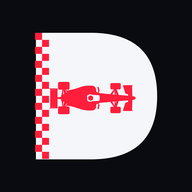
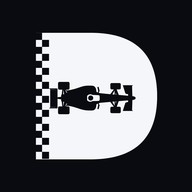
design(web): the mark knocks the car out instead of painting it
Inverted, per the second file. Everything solid is currentColor; the car
and half the chequer are cut out by a mask, so they show whatever is
actually behind the logo. On the site's ground the car is #0a0b10, on a
glass card it takes the card, on a blue banner it is blue -- nothing to
configure, one file. Painting them var(--color-bg) instead would have been
right only while the logo sat directly on the page, and wrong the moment
it landed on a card or an image.

The mask does not live inside the mark, and that is a bug fix rather than
a preference. url(#...) resolves to the first definition in the document,
and the first Logomark in this tree belongs to BootScreen, which the
pre-hydration script marks hidden; #boot-screen[hidden] is display:none,
and Chrome does not build SVG resources inside a display:none subtree. So
every reference on the page failed at once and all three marks drew as
unmasked white squares. LogoSprite renders the definition once, from the
root layout, in a zero-sized but rendered <svg>. It also takes the page
from three copies of 13 kB of path data to one.

All four raster icons regenerate from the new mark.

Claude-Session: https://claude.ai/code/session_01JEzcf5RCxaCG7udiR68ixF

Changed region(s): [[0.1562, 0.1562, 0.7188, 0.8438]]

diff --git a/web/components/Logomark.tsx b/web/components/Logomark.tsx
@@ -1,100 +1,63 @@
+import type { CSSProperties } from "react";
+
 /**
  * The logomark: a D whose counter is a Formula 1 seen from above, with the
  * start-finish chequer running down the stem.
  *
- * Drawn in Canva and handed over as SVG, then reduced to the four drawing
- * groups that make up the mark — the letter, the stem block, the chequer and
- * the car. The vertical "F1 Duel" lettering and the "Race Prediction Game"
- * line that came with the file are deliberately **not** here: the site already
- * sets its name in Archivo (`Wordmark`), and two different cuts of the same
- * two words sitting beside each other is the one thing a logotype cannot do.
- * The full lockup stays the poster and app-store asset.
+ * ## One colour, and a hole
  *
- * ## Two colours, one of which moves
+ * The mark is **a single fill plus a knockout.** Everything solid is
+ * `currentColor`, so the caller decides the contrasting colour and the mark
+ * inverts with whatever it sits on. The car and half the chequer are not
+ * painted at all: they are cut out of the letter by a mask, so they show
+ * **whatever is actually behind the logo** — the page, a glass card, a red
+ * button, a blue banner. On the site's own ground the car is `#0a0b10`; drop
+ * the same markup on blue and the car is blue, with nothing to configure.
  *
- * The letter is `currentColor`, so the mark inverts with whatever it sits on:
- * `text-ink` on the page, `text-bg` on a light surface, white on race red. The
- * car and the chequer are `var(--color-race)` and stay put, because red reads
- * on all three. The file arrived at `#fe0000`; it is on the site's own
- * `--color-race` here so a change to the token moves the logo with everything
- * else.
+ * The alternative was painting them with `var(--color-bg)`. That is right only
+ * while the logo sits directly on the page background, and wrong the moment it
+ * lands on a card, an image or a coloured surface. A hole is right everywhere.
  *
- * **This has to be inlined, not `<img src>`.** An SVG in an `<img>` is an
- * isolated document: it cannot see the page's `color` or its custom
- * properties, so the letter would render black on black. The standalone files
- * the platform demands (favicon, the two manifest icons, apple-icon) are
- * baked with literal colours for exactly that reason.
+ * The mask itself lives in `LogoSprite`, once per document — see the note
+ * there, which is a real bug and not a preference.
  *
- * Coordinates are rounded to one decimal, which took the path data from 22 kB
- * to 13 kB and is invisible: the viewBox is 751 units wide and the mark is
- * never drawn above about 200 pixels, so a tenth of a unit is a fortieth of a
- * pixel.
+ * **It has to be inlined, never `<img src>`.** An SVG in an `<img>` is an
+ * isolated document: it cannot see the page's `color`, so the letter would
+ * render black on black, and the knockout would show the img's own transparent
+ * backdrop rather than the surface behind it. The standalone files the
+ * platform demands — `favicon.ico`, `apple-icon.png`,
+ * `public/icon-{192,512}.png` — are therefore baked against the site's dark
+ * ground, which is the only place they are ever seen.
+ *
+ * The vertical "F1 Duel" lettering and the "Race Prediction Game" line that
+ * come with the source file are not here. The site sets its name in Archivo
+ * (`Wordmark`), and two different cuts of the same two words on one line is
+ * the one thing a logotype cannot do. The full lockup is kept at
+ * `public/logo-lockup.svg`.
  */
-export default function Logomark({ className = "" }: { className?: string }) {
+export default function Logomark({
+  className = "",
+  style,
+}: {
+  className?: string;
+  style?: CSSProperties;
+}) {
   return (
     <svg
       viewBox="478 349 751 778"
       className={className}
+      style={style}
       aria-hidden
       focusable="false"
     >
-      <defs>
-        <g />
-        <clipPath id="6fc291a2b5">
-          <rect x="0" width="882" y="0" height="1233" />
-        </clipPath>
-        <clipPath id="db0d56f797">
-          <path d="M 726.9 530.1 L 995.4 530.1 L 995.4 980.1 L 726.9 980.1 Z M 726.9 530.1" />
-        </clipPath>
-        <clipPath id="da140d0ff9">
-          <path d="M 0.9 0.1 L 269.4 0.1 L 269.4 450.1 L 0.9 450.1 Z M 0.9 0.1" />
-        </clipPath>
-        <clipPath id="29d493cb91">
-          <rect x="0" width="270" y="0" height="451" />
-        </clipPath>
-        <clipPath id="937ad524ee">
-          <path d="M 478.2 349 L 564.4 349 L 564.4 1124 L 478.2 1124 Z M 478.2 349" />
-        </clipPath>
-        <clipPath id="9f8ef73ac9">
-          <path d="M 564.7 650.4 L 1097 650.4 L 1097 849.9 L 564.7 849.9 Z M 564.7 650.4" />
-        </clipPath>
-      </defs>
-      <g transform="matrix(1, 0, 0, 1, 399, 133)">
-        <g clipPath="url(#6fc291a2b5)">
-          <g fill="currentColor">
-            <g transform="translate(0.922059, 994.024256)">
-              <g>
-                <path d="M 420.7 -778.1 C 692.9 -778.1 829 -648.4 829 -389.1 C 829 -129.7 692.9 0 420.7 0 L 83.7 0 L 83.7 -778.1 Z M 333.6 -186.6 L 416.2 -186.6 C 521 -186.6 573.4 -242.8 573.4 -355.1 L 573.4 -423 C 573.4 -535.3 521 -591.5 416.2 -591.5 L 333.6 -591.5 Z M 333.6 -186.6" />
-              </g>
-            </g>
-          </g>
-        </g>
-      </g>
-      <g clipPath="url(#db0d56f797)">
-        <g transform="matrix(1, 0, 0, 1, 726, 530)">
-          <g clipPath="url(#29d493cb91)">
-            <g clipPath="url(#da140d0ff9)">
-              <path
-                fill="currentColor"
-                d="M 0.9 0.1 L 269.4 0.1 L 269.4 450.2 L 0.9 450.2 Z M 0.9 0.1"
-              />
-            </g>
-          </g>
-        </g>
-      </g>
-      <g clipPath="url(#937ad524ee)">
-        <path
-          fill="var(--color-race)"
-          d="M 564.4 435.4 L 521.4 435.4 L 521.4 392.4 L 564.4 392.4 Z M 564.4 478.4 L 521.4 478.4 L 521.4 521.4 L 564.4 521.4 Z M 564.4 564.4 L 521.4 564.4 L 521.4 607.5 L 564.4 607.5 Z M 564.4 650.5 L 521.4 650.5 L 521.4 693.5 L 564.4 693.5 Z M 564.4 736.5 L 521.4 736.5 L 521.4 779.6 L 564.4 779.6 Z M 564.4 822.6 L 521.4 822.6 L 521.4 865.6 L 564.4 865.6 Z M 564.4 908.6 L 521.4 908.6 L 521.4 951.6 L 564.4 951.6 Z M 564.4 994.6 L 521.4 994.6 L 521.4 1037.6 L 564.4 1037.6 Z M 564.4 1080.7 L 521.4 1080.7 L 521.4 1123.7 L 564.4 1123.7 Z M 478.4 349.4 L 478.4 392.4 L 521.4 392.4 L 521.4 349.4 Z M 478.4 435.4 L 478.4 478.4 L 521.4 478.4 L 521.4 435.4 Z M 478.4 521.4 L 478.4 564.4 L 521.4 564.4 L 521.4 521.4 Z M 478.4 607.5 L 478.4 650.5 L 521.4 650.5 L 521.4 607.5 Z M 478.4 693.5 L 478.4 736.5 L 521.4 736.5 L 521.4 693.5 Z M 478.4 779.5 L 478.4 822.5 L 521.4 822.5 L 521.4 779.5 Z M 478.4 865.6 L 478.4 908.6 L 521.4 908.6 L 521.4 865.6 Z M 478.4 951.6 L 478.4 994.6 L 521.4 994.6 L 521.4 951.6 Z M 478.4 1037.6 L 478.4 1080.7 L 521.4 1080.7 L 521.4 1037.6 Z M 478.4 1037.6"
-        />
-      </g>
-      <g clipPath="url(#9f8ef73ac9)">
-        <path
-          fill="var(--color-race)"
-          d="M 668.8 698.6 L 672.4 703.3 C 672.5 703.5 672.7 703.5 672.7 703.5 C 677.4 703 681.4 702.6 684.9 702 C 699.3 699.6 713 696.5 726 692.7 C 733.9 690.4 742.3 687.6 751.2 684.5 C 765.1 679.6 779.6 674.9 794.2 674.2 C 803.3 673.7 813.6 673.7 825.2 673.9 C 830.1 673.9 834.2 674.2 838.5 676.1 C 848.1 680.5 852.9 690.5 854.4 700.7 C 854.7 702.9 855 706.1 855.3 710.5 C 855.3 710.7 855.4 710.8 855.6 711.1 C 857.3 713.3 860.9 714.8 863.5 715.8 C 863.5 715.8 863.7 715.8 863.7 715.8 C 863.8 715.8 864 715.8 864 715.7 L 866.6 708.2 C 866.8 707.9 866.8 707.6 866.6 707.3 C 864.5 697.9 862.9 690.6 861.6 685.6 C 861.5 684.8 861.3 684 861.6 683.6 C 862.2 682.1 864.5 681.5 866.3 681.2 C 868.8 680.8 869.4 682.1 870 684.5 C 871.3 690.4 872.8 697 874.6 704.2 C 875.3 707.1 875.2 709.6 872.1 710.8 C 871.8 711 871.6 711.1 871.6 711.3 L 870 717.3 C 870 717.4 870 717.6 870.1 717.6 L 879 720.2 C 879.3 720.4 879.6 720.4 880 720.5 C 884.9 720.8 889.6 721.3 894 721.9 C 900.8 722.6 916.5 724.1 941.3 726.3 L 962.3 697.1 C 962.5 697.1 962.5 697 962.5 697 C 962.5 697 962.3 696.8 962.3 696.8 C 955.1 696.8 951.1 696.8 950.3 696.8 C 945.5 697 941.1 693.9 941.1 689 C 941.1 681.8 941.1 675 941.1 668.7 C 941.1 665.5 941.4 663.3 942 662.2 C 942.9 660.6 944.2 659.3 946 658.4 C 947 658 948.8 657.7 951.6 657.8 C 959.2 657.8 973.2 657.8 993.6 657.8 C 997.1 657.8 999.6 658.1 1000.9 658.7 C 1003.7 659.9 1005.2 662.5 1005.2 666.3 C 1005.2 679.3 1005.2 687.1 1005.2 689.6 C 1005.2 689.9 1005.2 690.2 1005 690.5 C 1003.7 694.8 1001.1 696.8 996.6 696.8 C 992.4 696.8 986.9 696.8 980.6 696.8 C 980.3 696.8 980.2 697 980.2 697.1 C 980.2 697.3 980.3 697.3 980.3 697.3 L 992.7 730.9 C 1010.9 732.5 1030.2 734.2 1050.2 735.9 L 1050.2 726.9 C 1050.2 726.7 1050.1 726.6 1049.8 726.4 C 1046.9 726 1043.5 725.4 1039.8 724.4 C 1036 723.5 1033.6 722 1032.6 718.5 C 1026.1 697.9 1021.2 682.3 1018 671.6 C 1018 671.5 1018 671.5 1018 671.5 C 1018 671.2 1018.1 671.1 1018.4 671.1 C 1035.7 671.1 1055.7 671.1 1078.5 671.1 C 1079.1 671.2 1079.6 671.6 1079.6 672.2 C 1079.6 672.2 1079.6 672.4 1079.6 672.4 C 1079.3 673.3 1078.7 673.7 1077.8 673.9 L 1075 673.9 C 1074.8 673.9 1074.8 673.9 1074.8 674 C 1075.1 694.8 1075.6 712.3 1076 726.7 C 1076.2 731.7 1076.3 735.7 1076.5 738.7 C 1077.3 738.7 1078.4 738.8 1079.4 738.9 C 1085.6 739.7 1095.2 741.5 1096.5 749.1 C 1097.2 752.8 1094.6 756.5 1091.5 758.2 C 1088.5 759.9 1085.2 760.9 1081.5 761.3 C 1079.8 761.5 1078.2 761.6 1076.8 761.8 C 1076.6 763 1076.6 764 1076.6 764.6 C 1075.9 783.3 1075.3 803.7 1074.8 826 C 1074.8 826.1 1074.8 826.3 1075 826.3 L 1077.9 826.4 C 1078.8 826.4 1079.4 827 1079.6 827.8 L 1079.6 827.9 C 1079.6 828 1079.6 828 1079.6 828 C 1079.7 828.6 1079.3 829.2 1078.7 829.2 C 1078.5 829.2 1078.5 829.2 1078.5 829.2 L 1018.4 829.2 C 1018.4 829.2 1018.3 829.2 1018.3 829.2 C 1018.1 829.2 1018 829.1 1018 828.9 C 1018 828.8 1018 828.8 1018 828.8 C 1019 825.1 1020.2 821.1 1021.5 816.9 C 1026.4 801.4 1030.1 789.9 1032.6 782.1 C 1033.5 779.3 1035.4 777.5 1038.5 776.8 C 1042.4 775.9 1046.1 775.2 1049.7 774.4 C 1050 774.4 1050.1 774.3 1050.1 774.1 L 1050.1 764.3 C 1036.8 765.5 1023.2 766.6 1008.7 767.8 C 1003.3 768.3 998 768.7 992.5 769.1 L 980.6 803 C 980.6 803 980.6 803 980.6 803.2 C 980.6 803.3 980.7 803.5 980.9 803.5 C 988.1 803.6 992.5 803.6 994.4 803.5 C 999.4 803.5 1002.5 804 1004.4 808.2 C 1005 809.2 1005.2 811 1005.2 813.5 C 1005 814.9 1005 821.1 1005.2 831.7 C 1005.2 835.3 1004.9 837.5 1004.3 838.5 C 1002.5 841.9 999.7 842.9 995.6 842.8 C 994.9 842.8 980 842.8 950.8 842.8 C 948.3 842.8 946.7 842.5 945.8 842 C 944.2 841.3 942.9 840 941.9 838.2 C 941.3 837 941.1 835.3 941.1 832.9 C 941.1 832.5 941.1 825.2 941.1 811.3 C 941.1 808 943.2 805.5 946.1 804.2 C 947 803.7 948.5 803.5 950.4 803.6 C 951.7 803.6 955.7 803.6 962.3 803.5 C 962.5 803.5 962.5 803.5 962.5 803.3 L 940.8 773.6 C 912 776.2 893 778 883.7 778.7 C 878.7 779.2 874.3 780.3 870.1 782.4 C 870 782.4 869.8 782.5 870 782.7 L 871.8 789 C 871.8 789.2 871.9 789.2 871.9 789.2 C 872.1 789.5 872.4 789.6 872.8 789.8 C 874.6 790.5 875.2 793.7 874.9 795.1 C 873.1 802.1 871.6 808.3 870.3 813.6 C 869.4 816.9 869.1 819.1 865.3 818.2 C 863.7 817.7 861 816.6 861.5 814.5 C 861.9 812.4 863.7 805.1 866.6 792.4 C 866.6 792.3 866.6 792.1 866.6 792 L 864 784.8 C 864 784.6 863.7 784.6 863.5 784.6 C 860.9 785.5 856.9 786.8 855.7 788.9 C 855.7 789 855.6 789.2 855.6 789.5 C 854.2 798.7 854.2 809 848.2 817.1 C 847 818.8 845.1 820.5 842.8 822.3 C 838.3 825.4 832.1 826.4 826.3 826.4 C 821.7 826.6 816.5 826.6 810.9 826.6 C 798.1 826.7 785.5 825.2 773.1 822.2 C 765.9 820.5 759 818.5 752 816.3 C 735.5 810.7 721.8 806.5 710.8 803.5 C 703.1 801.4 694.9 799.6 685.9 798.3 C 681.6 797.6 677.7 797.4 672.8 797.1 C 672.5 797.1 672.2 797.3 672.1 797.4 L 669.6 801.1 C 669.4 801.1 669.4 801.1 669.4 801.2 C 669.4 801.4 669.6 801.4 669.7 801.4 C 673.5 801.4 676.9 801.4 679.7 801.4 C 682.1 801.4 683.7 801.5 684.6 802 C 686.8 802.9 688.4 804.3 689.6 806.5 C 690.2 807.4 690.3 809.5 690.3 812.4 C 690.3 822.7 690.3 832.2 690.3 840.4 C 690.5 844.4 688 847.8 684.1 849 C 683.3 849.2 681.8 849.4 679.6 849.4 C 648.2 849.4 631.9 849.4 630.5 849.4 C 627.7 849.4 625.7 849.2 624.7 848.7 C 622.7 847.6 621.4 846.3 620.4 844.4 C 619.9 843.5 619.6 841.9 619.6 839.5 C 619.6 825.8 619.6 815.7 619.8 809.2 C 619.8 807.3 620.7 805.5 622.3 803.9 C 624.2 802.1 626.4 801.2 629.2 801.2 C 632.6 801.4 638.1 801.4 645.6 801.4 C 645.6 801.4 645.7 801.4 645.7 801.2 L 642.2 772.5 C 642.2 772.4 642.2 772.2 642 772.1 C 641.9 771.9 641.6 771.5 641.1 771.2 C 640.6 770.6 640.1 769.6 639.7 768.3 C 638.8 764.9 638.3 761.3 638.3 757.9 C 638.3 757.8 638.2 757.7 638.1 757.7 C 637 757.5 633 757.1 626.4 756.3 C 623 755.9 619.8 755.3 616.7 754.6 C 616.6 754.6 616.6 754.6 616.6 754.6 C 616.6 754.6 616.4 754.7 616.4 754.7 C 616.4 754.7 616.4 754.7 616.4 754.9 L 616.4 811 C 616.4 811 616.4 811 616.4 811.1 C 616.1 812 615.5 812.7 614.6 813.3 C 614.2 813.5 613.3 813.6 611.8 813.6 C 589.9 813.6 574.1 813.6 564.7 813.6 C 564.6 813.6 564.4 813.6 564.4 813.5 C 564.4 813.2 564.4 812.9 564.6 812.7 C 564.7 812.6 564.9 812.4 565.2 812.3 C 567.7 811.6 570.2 810.1 570.9 807.4 C 571 807.1 571.3 807 571.6 807 L 603 807 C 603.2 807 603.3 806.8 603.3 806.7 L 603.3 806.4 C 603.3 806.2 603.2 806.1 603 806.1 L 571.6 806.1 C 571.5 806.1 571.3 806 571.3 806 L 571.3 698.7 C 571.3 698.6 571.5 698.6 571.6 698.6 L 602.7 698.6 C 603 698.6 603.3 698.3 603.3 698.2 L 603.3 697.9 C 603.3 697.7 603.3 697.7 603.2 697.7 L 571.5 697.7 C 571.3 697.7 571 697.6 571 697.3 C 569.9 694.6 567.8 692.9 564.9 692.1 C 564.6 692.1 564.4 691.8 564.4 691.5 C 564.4 691.2 564.6 690.9 565 690.9 C 583.9 690.8 599.3 690.9 611.5 690.9 C 613 690.9 614.1 691.1 614.6 691.4 C 616 692.3 616.4 693.3 616.4 695.1 C 616.4 717 616.4 733.5 616.4 744.8 C 616.4 745 616.6 745.1 616.7 745.1 C 616.7 745.1 616.7 745.1 616.8 745.1 C 623.3 744 630.4 743.2 638.1 742.9 C 638.2 742.9 638.3 742.8 638.3 742.6 C 638.3 738.1 638.6 730.9 642 727.9 C 642.2 727.8 642.2 727.6 642.2 727.5 L 645.7 699 C 645.7 699 645.7 698.9 645.7 698.9 C 645.7 698.7 645.6 698.6 645.4 698.6 C 640.4 698.6 635.3 698.6 629.8 698.6 C 627.4 698.6 625.8 698.5 624.8 697.9 C 622.4 696.7 619.8 693.7 619.8 690.8 C 619.6 685.9 619.6 675.5 619.6 659.9 C 619.6 655.7 621.3 652.9 624.5 651.5 C 625.8 650.9 628 650.6 631.1 650.6 C 640.7 650.6 656.2 650.6 678 650.6 C 681.1 650.6 682.7 650.6 683.1 650.7 C 687.1 651.5 690.2 654.6 690.3 659 C 690.3 662.1 690.3 672.2 690.3 689.8 C 690.3 694.3 686.1 698.5 681.5 698.5 C 679 698.6 674.9 698.6 668.8 698.6 Z M 953.6 727.5 C 957.9 727.8 962.3 728.2 967 728.6 L 967 704.2 C 967 704.2 967 704 967 704 C 967 704 967 704 966.9 704 C 966.6 704.6 966.3 705.5 966 706.1 C 962.5 712.3 958.4 719.4 953.6 727.5 Z M 973.4 729.2 L 977.4 729.5 L 973.5 716.7 C 973.4 716.7 973.4 716.7 973.4 716.7 Z M 804.8 749.8 C 804.8 758.5 811.7 765.6 820.4 765.6 C 828.9 765.6 836 758.5 836 749.8 C 836 741.3 828.9 734.2 820.4 734.2 C 811.7 734.2 804.8 741.3 804.8 749.8 Z M 872.6 766.9 C 873.8 765.2 874.6 763 875 760.7 C 875.9 755.3 876 749.4 875.3 742.9 C 875 739.2 874.4 736.7 873.8 735 C 873.7 734.7 873.5 734.4 873.4 734.1 L 872.8 733.2 C 872.6 733.1 872.4 733.1 872.2 733.1 C 870.7 732.6 867.5 732.3 862.6 732 C 851.6 731.4 841.4 731 832 730.7 C 831.6 730.7 831.3 730.7 831 730.6 C 829.1 729.7 826.8 728.6 824.8 727.9 C 814.6 724.7 806.2 729.2 798.7 735.9 C 798.4 736.2 798.3 736.4 798.3 736.7 L 798.3 763.5 C 798.3 763.7 798.4 764 798.6 764.1 C 800.3 765.6 802.3 767.1 804.2 768.6 C 812.9 774.4 821.8 773.7 830.7 769.3 C 831.3 769 831.7 768.8 832.3 768.8 C 836.9 768.8 841.1 768.7 845 768.6 C 852.9 768.1 862.3 768.1 870.4 767.4 C 871.2 767.2 871.9 767.1 872.6 766.9 Z M 977.5 770.3 C 976.2 770.5 974.7 770.6 973.2 770.8 L 973.2 784.6 C 973.2 784.8 973.4 784.8 973.4 784.8 C 973.5 784.8 973.5 784.8 973.7 784.6 Z M 966.8 771.3 C 962.3 771.6 957.8 772.1 953.2 772.5 L 967.2 796.7 C 967.2 796.7 967.2 796.8 967.3 796.8 C 967.3 796.8 967.5 796.7 967.5 796.7 Z M 663.2 801.5 C 663.5 801.4 663.7 801.2 663.8 801.1 C 667.4 796.7 671.3 791.4 675.5 785.2 C 675.5 785.2 675.5 785 675.5 785 C 675.5 785 675.5 784.9 675.3 784.8 L 672.1 783.1 C 671.9 783.1 671.8 783.1 671.8 783.3 L 662.8 800.9 C 662.8 801.1 662.8 801.1 662.8 801.1 C 662.8 801.4 662.9 801.5 663.1 801.5 C 663.2 801.5 663.2 801.5 663.2 801.5 Z M 651.9 800.5 L 656.6 773.4 C 656.6 773.3 656.5 773.1 656.3 773.1 L 651.2 773.3 C 651 773.3 651 773.4 651 773.4 L 651.6 800.5 C 651.6 800.5 651.8 800.7 651.8 800.7 C 651.9 800.7 651.9 800.5 651.9 800.5 Z M 651.8 699.2 L 650.9 726.1 C 650.9 726.3 651 726.4 651.2 726.4 L 656.5 726.6 C 656.8 726.6 656.9 726.4 656.9 726.3 C 656.9 726.3 656.9 726.3 656.9 726.1 L 651.9 699.2 C 651.9 699 651.9 699 651.9 699 C 651.8 699 651.8 699 651.8 699.2 Z M 663.4 698.9 C 663.4 698.9 663.2 698.9 663.2 698.9 C 663.1 698.9 662.9 698.9 662.9 699 C 662.9 699.2 663.1 699.2 663.1 699.2 C 665.7 705.7 668.8 711.7 672.1 717.3 C 672.1 717.3 672.1 717.4 672.2 717.4 C 672.2 717.4 672.2 717.4 672.2 717.3 L 676 715.5 C 676 715.5 676 715.4 676 715.4 C 670.9 708.5 666.8 703 663.7 699.3 C 663.5 699 663.4 698.9 663.4 698.9 Z M 663.4 698.9"
-          fillRule="evenodd"
-        />
-      </g>
+      <rect
+        x="478"
+        y="349"
+        width="751"
+        height="778"
+        fill="currentColor"
+        mask="url(#duel-cut)"
+      />
     </svg>
   );
 }

diff --git a/web/components/LogoSprite.tsx b/web/components/LogoSprite.tsx
@@ -1,0 +1,103 @@
+/**
+ * The logomark's definitions, rendered exactly once per document by the root
+ * layout, and referenced by every `Logomark` on the page.
+ *
+ * ## Why this is not inside the mark
+ *
+ * The mark is a single `currentColor` rect with a `<mask>` cutting the car and
+ * half the chequer out of it. The first attempt carried that mask inside every
+ * instance under one shared id, on the reasoning that identical duplicates
+ * resolve to the first and draw the same thing.
+ *
+ * They do not. `url(#…)` resolves to the first definition **in the document**,
+ * and the first `Logomark` in this tree belongs to `BootScreen`, which the
+ * pre-hydration script marks `hidden` on a repeat visit. `#boot-screen[hidden]`
+ * is `display: none`, and Chrome does not build SVG resources inside a
+ * `display: none` subtree — so every reference on the page failed at once and
+ * three marks rendered as unmasked squares.
+ *
+ * One definition, in a zero-sized but **rendered** `<svg>` (`position:absolute`
+ * and `width/height: 0`, never `display: none`, for the reason above), fixes
+ * that and takes the page from three copies of 13 kB of path data to one.
+ *
+ * It must stay in the root layout: a `Logomark` on a route that never rendered
+ * this would draw a plain square, which is exactly the failure it was written
+ * to stop.
+ */
+export default function LogoSprite() {
+  return (
+    <svg
+      aria-hidden
+      focusable="false"
+      style={{ position: "absolute", width: 0, height: 0, overflow: "hidden" }}
+    >
+      <defs>
+        <clipPath id="bb8160bede">
+          <rect x="0" width="882" y="0" height="1233" />
+        </clipPath>
+        <clipPath id="eb8925320b">
+          <path d="M 726.9 530.1 L 995.4 530.1 L 995.4 980.1 L 726.9 980.1 Z M 726.9 530.1" />
+        </clipPath>
+        <clipPath id="c1cb128b96">
+          <path d="M 0.9 0.1 L 269.4 0.1 L 269.4 450.1 L 0.9 450.1 Z M 0.9 0.1" />
+        </clipPath>
+        <clipPath id="554c2bb5c2">
+          <rect x="0" width="270" y="0" height="451" />
+        </clipPath>
+        <clipPath id="51ea2a9565">
+          <path d="M 478.2 349 L 564.4 349 L 564.4 1124 L 478.2 1124 Z M 478.2 349" />
+        </clipPath>
+        <clipPath id="b3fcef3e1a">
+          <path d="M 564.7 650.4 L 1097 650.4 L 1097 849.9 L 564.7 849.9 Z M 564.7 650.4" />
+        </clipPath>
+        <mask
+          id="duel-cut"
+          maskUnits="userSpaceOnUse"
+          x="478"
+          y="349"
+          width="751"
+          height="778"
+        >
+          <g transform="matrix(1, 0, 0, 1, 399, 133)">
+            <g clipPath="url(#bb8160bede)">
+              <g fill="#fff">
+                <g transform="translate(0.922059, 994.024256)">
+                  <g>
+                    <path d="M 420.7 -778.1 C 692.9 -778.1 829 -648.4 829 -389.1 C 829 -129.7 692.9 0 420.7 0 L 83.7 0 L 83.7 -778.1 Z M 333.6 -186.6 L 416.2 -186.6 C 521 -186.6 573.4 -242.8 573.4 -355.1 L 573.4 -423 C 573.4 -535.3 521 -591.5 416.2 -591.5 L 333.6 -591.5 Z M 333.6 -186.6" />
+                  </g>
+                </g>
+              </g>
+            </g>
+          </g>
+          <g clipPath="url(#eb8925320b)">
+            <g transform="matrix(1, 0, 0, 1, 726, 530)">
+              <g clipPath="url(#554c2bb5c2)">
+                <g clipPath="url(#c1cb128b96)">
+                  <path
+                    fill="#fff"
+                    d="M 0.9 0.1 L 269.4 0.1 L 269.4 450.2 L 0.9 450.2 Z M 0.9 0.1"
+                    fillRule="nonzero"
+                  />
+                </g>
+              </g>
+            </g>
+          </g>
+          <g clipPath="url(#51ea2a9565)">
+            <path
+              fill="#000"
+              d="M 564.4 435.4 L 521.4 435.4 L 521.4 392.4 L 564.4 392.4 Z M 564.4 478.4 L 521.4 478.4 L 521.4 521.4 L 564.4 521.4 Z M 564.4 564.4 L 521.4 564.4 L 521.4 607.5 L 564.4 607.5 Z M 564.4 650.5 L 521.4 650.5 L 521.4 693.5 L 564.4 693.5 Z M 564.4 736.5 L 521.4 736.5 L 521.4 779.6 L 564.4 779.6 Z M 564.4 822.6 L 521.4 822.6 L 521.4 865.6 L 564.4 865.6 Z M 564.4 908.6 L 521.4 908.6 L 521.4 951.6 L 564.4 951.6 Z M 564.4 994.6 L 521.4 994.6 L 521.4 1037.6 L 564.4 1037.6 Z M 564.4 1080.7 L 521.4 1080.7 L 521.4 1123.7 L 564.4 1123.7 Z M 478.4 349.4 L 478.4 392.4 L 521.4 392.4 L 521.4 349.4 Z M 478.4 435.4 L 478.4 478.4 L 521.4 478.4 L 521.4 435.4 Z M 478.4 521.4 L 478.4 564.4 L 521.4 564.4 L 521.4 521.4 Z M 478.4 607.5 L 478.4 650.5 L 521.4 650.5 L 521.4 607.5 Z M 478.4 693.5 L 478.4 736.5 L 521.4 736.5 L 521.4 693.5 Z M 478.4 779.5 L 478.4 822.5 L 521.4 822.5 L 521.4 779.5 Z M 478.4 865.6 L 478.4 908.6 L 521.4 908.6 L 521.4 865.6 Z M 478.4 951.6 L 478.4 994.6 L 521.4 994.6 L 521.4 951.6 Z M 478.4 1037.6 L 478.4 1080.7 L 521.4 1080.7 L 521.4 1037.6 Z M 478.4 1037.6"
+              fillRule="nonzero"
+            />
+          </g>
+          <g clipPath="url(#b3fcef3e1a)">
+            <path
+              fill="#000"
+              d="M 668.8 698.6 L 672.4 703.3 C 672.5 703.5 672.7 703.5 672.7 703.5 C 677.4 703 681.4 702.6 684.9 702 C 699.3 699.6 713 696.5 726 692.7 C 733.9 690.4 742.3 687.6 751.2 684.5 C 765.1 679.6 779.6 674.9 794.2 674.2 C 803.3 673.7 813.6 673.7 825.2 673.9 C 830.1 673.9 834.2 674.2 838.5 676.1 C 848.1 680.5 852.9 690.5 854.4 700.7 C 854.7 702.9 855 706.1 855.3 710.5 C 855.3 710.7 855.4 710.8 855.6 711.1 C 857.3 713.3 860.9 714.8 863.5 715.8 C 863.5 715.8 863.7 715.8 863.7 715.8 C 863.8 715.8 864 715.8 864 715.7 L 866.6 708.2 C 866.8 707.9 866.8 707.6 866.6 707.3 C 864.5 697.9 862.9 690.6 861.6 685.6 C 861.5 684.8 861.3 684 861.6 683.6 C 862.2 682.1 864.5 681.5 866.3 681.2 C 868.8 680.8 869.4 682.1 870 684.5 C 871.3 690.4 872.8 697 874.6 704.2 C 875.3 707.1 875.2 709.6 872.1 710.8 C 871.8 711 871.6 711.1 871.6 711.3 L 870 717.3 C 870 717.4 870 717.6 870.1 717.6 L 879 720.2 C 879.3 720.4 879.6 720.4 880 720.5 C 884.9 720.8 889.6 721.3 894 721.9 C 900.8 722.6 916.5 724.1 941.3 726.3 L 962.3 697.1 C 962.5 697.1 962.5 697 962.5 697 C 962.5 697 962.3 696.8 962.3 696.8 C 955.1 696.8 951.1 696.8 950.3 696.8 C 945.5 697 941.1 693.9 941.1 689 C 941.1 681.8 941.1 675 941.1 668.7 C 941.1 665.5 941.4 663.3 942 662.2 C 942.9 660.6 944.2 659.3 946 658.4 C 947 658 948.8 657.7 951.6 657.8 C 959.2 657.8 973.2 657.8 993.6 657.8 C 997.1 657.8 999.6 658.1 1000.9 658.7 C 1003.7 659.9 1005.2 662.5 1005.2 666.3 C 1005.2 679.3 1005.2 687.1 1005.2 689.6 C 1005.2 689.9 1005.2 690.2 1005 690.5 C 1003.7 694.8 1001.1 696.8 996.6 696.8 C 992.4 696.8 986.9 696.8 980.6 696.8 C 980.3 696.8 980.2 697 980.2 697.1 C 980.2 697.3 980.3 697.3 980.3 697.3 L 992.7 730.9 C 1010.9 732.5 1030.2 734.2 1050.2 735.9 L 1050.2 726.9 C 1050.2 726.7 1050.1 726.6 1049.8 726.4 C 1046.9 726 1043.5 725.4 1039.8 724.4 C 1036 723.5 1033.6 722 1032.6 718.5 C 1026.1 697.9 1021.2 682.3 1018 671.6 C 1018 671.5 1018 671.5 1018 671.5 C 1018 671.2 1018.1 671.1 1018.4 671.1 C 1035.7 671.1 1055.7 671.1 1078.5 671.1 C 1079.1 671.2 1079.6 671.6 1079.6 672.2 C 1079.6 672.2 1079.6 672.4 1079.6 672.4 C 1079.3 673.3 1078.7 673.7 1077.8 673.9 L 1075 673.9 C 1074.8 673.9 1074.8 673.9 1074.8 674 C 1075.1 694.8 1075.6 712.3 1076 726.7 C 1076.2 731.7 1076.3 735.7 1076.5 738.7 C 1077.3 738.7 1078.4 738.8 1079.4 738.9 C 1085.6 739.7 1095.2 741.5 1096.5 749.1 C 1097.2 752.8 1094.6 756.5 1091.5 758.2 C 1088.5 759.9 1085.2 760.9 1081.5 761.3 C 1079.8 761.5 1078.2 761.6 1076.8 761.8 C 1076.6 763 1076.6 764 1076.6 764.6 C 1075.9 783.3 1075.3 803.7 1074.8 826 C 1074.8 826.1 1074.8 826.3 1075 826.3 L 1077.9 826.4 C 1078.8 826.4 1079.4 827 1079.6 827.8 L 1079.6 827.9 C 1079.6 828 1079.6 828 1079.6 828 C 1079.7 828.6 1079.3 829.2 1078.7 829.2 C 1078.5 829.2 1078.5 829.2 1078.5 829.2 L 1018.4 829.2 C 1018.4 829.2 1018.3 829.2 1018.3 829.2 C 1018.1 829.2 1018 829.1 1018 828.9 C 1018 828.8 1018 828.8 1018 828.8 C 1019 825.1 1020.2 821.1 1021.5 816.9 C 1026.4 801.4 1030.1 789.9 1032.6 782.1 C 1033.5 779.3 1035.4 777.5 1038.5 776.8 C 1042.4 775.9 1046.1 775.2 1049.7 774.4 C 1050 774.4 1050.1 774.3 1050.1 774.1 L 1050.1 764.3 C 1036.8 765.5 1023.2 766.6 1008.7 767.8 C 1003.3 768.3 998 768.7 992.5 769.1 L 980.6 803 C 980.6 803 980.6 803 980.6 803.2 C 980.6 803.3 980.7 803.5 980.9 803.5 C 988.1 803.6 992.5 803.6 994.4 803.5 C 999.4 803.5 1002.5 804 1004.4 808.2 C 1005 809.2 1005.2 811 1005.2 813.5 C 1005 814.9 1005 821.1 1005.2 831.7 C 1005.2 835.3 1004.9 837.5 1004.3 838.5 C 1002.5 841.9 999.7 842.9 995.6 842.8 C 994.9 842.8 980 842.8 950.8 842.8 C 948.3 842.8 946.7 842.5 945.8 842 C 944.2 841.3 942.9 840 941.9 838.2 C 941.3 837 941.1 835.3 941.1 832.9 C 941.1 832.5 941.1 825.2 941.1 811.3 C 941.1 808 943.2 805.5 946.1 804.2 C 947 803.7 948.5 803.5 950.4 803.6 C 951.7 803.6 955.7 803.6 962.3 803.5 C 962.5 803.5 962.5 803.5 962.5 803.3 L 940.8 773.6 C 912 776.2 893 778 883.7 778.7 C 878.7 779.2 874.3 780.3 870.1 782.4 C 870 782.4 869.8 782.5 870 782.7 L 871.8 789 C 871.8 789.2 871.9 789.2 871.9 789.2 C 872.1 789.5 872.4 789.6 872.8 789.8 C 874.6 790.5 875.2 793.7 874.9 795.1 C 873.1 802.1 871.6 808.3 870.3 813.6 C 869.4 816.9 869.1 819.1 865.3 818.2 C 863.7 817.7 861 816.6 861.5 814.5 C 861.9 812.4 863.7 805.1 866.6 792.4 C 866.6 792.3 866.6 792.1 866.6 792 L 864 784.8 C 864 784.6 863.7 784.6 863.5 784.6 C 860.9 785.5 856.9 786.8 855.7 788.9 C 855.7 789 855.6 789.2 855.6 789.5 C 854.2 798.7 854.2 809 848.2 817.1 C 847 818.8 845.1 820.5 842.8 822.3 C 838.3 825.4 832.1 826.4 826.3 826.4 C 821.7 826.6 816.5 826.6 810.9 826.6 C 798.1 826.7 785.5 825.2 773.1 822.2 C 765.9 820.5 759 818.5 752 816.3 C 735.5 810.7 721.8 806.5 710.8 803.5 C 703.1 801.4 694.9 799.6 685.9 798.3 C 681.6 797.6 677.7 797.4 672.8 797.1 C 672.5 797.1 672.2 797.3 672.1 797.4 L 669.6 801.1 C 669.4 801.1 669.4 801.1 669.4 801.2 C 669.4 801.4 669.6 801.4 669.7 801.4 C 673.5 801.4 676.9 801.4 679.7 801.4 C 682.1 801.4 683.7 801.5 684.6 802 C 686.8 802.9 688.4 804.3 689.6 806.5 C 690.2 807.4 690.3 809.5 690.3 812.4 C 690.3 822.7 690.3 832.2 690.3 840.4 C 690.5 844.4 688 847.8 684.1 849 C 683.3 849.2 681.8 849.4 679.6 849.4 C 648.2 849.4 631.9 849.4 630.5 849.4 C 627.7 849.4 625.7 849.2 624.7 848.7 C 622.7 847.6 621.4 846.3 620.4 844.4 C 619.9 843.5 619.6 841.9 619.6 839.5 C 619.6 825.8 619.6 815.7 619.8 809.2 C 619.8 807.3 620.7 805.5 622.3 803.9 C 624.2 802.1 626.4 801.2 629.2 801.2 C 632.6 801.4 638.1 801.4 645.6 801.4 C 645.6 801.4 645.7 801.4 645.7 801.2 L 642.2 772.5 C 642.2 772.4 642.2 772.2 642 772.1 C 641.9 771.9 641.6 771.5 641.1 771.2 C 640.6 770.6 640.1 769.6 639.7 768.3 C 638.8 764.9 638.3 761.3 638.3 757.9 C 638.3 757.8 638.2 757.7 638.1 757.7 C 637 757.5 633 757.1 626.4 756.3 C 623 755.9 619.8 755.3 616.7 754.6 C 616.6 754.6 616.6 754.6 616.6 754.6 C 616.6 754.6 616.4 754.7 616.4 754.7 C 616.4 754.7 616.4 754.7 616.4 754.9 L 616.4 811 C 616.4 811 616.4 811 616.4 811.1 C 616.1 812 615.5 812.7 614.6 813.3 C 614.2 813.5 613.3 813.6 611.8 813.6 C 589.9 813.6 574.1 813.6 564.7 813.6 C 564.6 813.6 564.4 813.6 564.4 813.5 C 564.4 813.2 564.4 812.9 564.6 812.7 C 564.7 812.6 564.9 812.4 565.2 812.3 C 567.7 811.6 570.2 810.1 570.9 807.4 C 571 807.1 571.3 807 571.6 807 L 603 807 C 603.2 807 603.3 806.8 603.3 806.7 L 603.3 806.4 C 603.3 806.2 603.2 806.1 603 806.1 L 571.6 806.1 C 571.5 806.1 571.3 806 571.3 806 L 571.3 698.7 C 571.3 698.6 571.5 698.6 571.6 698.6 L 602.7 698.6 C 603 698.6 603.3 698.3 603.3 698.2 L 603.3 697.9 C 603.3 697.7 603.3 697.7 603.2 697.7 L 571.5 697.7 C 571.3 697.7 571 697.6 571 697.3 C 569.9 694.6 567.8 692.9 564.9 692.1 C 564.6 692.1 564.4 691.8 564.4 691.5 C 564.4 691.2 564.6 690.9 565 690.9 C 583.9 690.8 599.3 690.9 611.5 690.9 C 613 690.9 614.1 691.1 614.6 691.4 C 616 692.3 616.4 693.3 616.4 695.1 C 616.4 717 616.4 733.5 616.4 744.8 C 616.4 745 616.6 745.1 616.7 745.1 C 616.7 745.1 616.7 745.1 616.8 745.1 C 623.3 744 630.4 743.2 638.1 742.9 C 638.2 742.9 638.3 742.8 638.3 742.6 C 638.3 738.1 638.6 730.9 642 727.9 C 642.2 727.8 642.2 727.6 642.2 727.5 L 645.7 699 C 645.7 699 645.7 698.9 645.7 698.9 C 645.7 698.7 645.6 698.6 645.4 698.6 C 640.4 698.6 635.3 698.6 629.8 698.6 C 627.4 698.6 625.8 698.5 624.8 697.9 C 622.4 696.7 619.8 693.7 619.8 690.8 C 619.6 685.9 619.6 675.5 619.6 659.9 C 619.6 655.7 621.3 652.9 624.5 651.5 C 625.8 650.9 628 650.6 631.1 650.6 C 640.7 650.6 656.2 650.6 678 650.6 C 681.1 650.6 682.7 650.6 683.1 650.7 C 687.1 651.5 690.2 654.6 690.3 659 C 690.3 662.1 690.3 672.2 690.3 689.8 C 690.3 694.3 686.1 698.5 681.5 698.5 C 679 698.6 674.9 698.6 668.8 698.6 Z M 953.6 727.5 C 957.9 727.8 962.3 728.2 967 728.6 L 967 704.2 C 967 704.2 967 704 967 704 C 967 704 967 704 966.9 704 C 966.6 704.6 966.3 705.5 966 706.1 C 962.5 712.3 958.4 719.4 953.6 727.5 Z M 973.4 729.2 L 977.4 729.5 L 973.5 716.7 C 973.4 716.7 973.4 716.7 973.4 716.7 Z M 804.8 749.8 C 804.8 758.5 811.7 765.6 820.4 765.6 C 828.9 765.6 836 758.5 836 749.8 C 836 741.3 828.9 734.2 820.4 734.2 C 811.7 734.2 804.8 741.3 804.8 749.8 Z M 872.6 766.9 C 873.8 765.2 874.6 763 875 760.7 C 875.9 755.3 876 749.4 875.3 742.9 C 875 739.2 874.4 736.7 873.8 735 C 873.7 734.7 873.5 734.4 873.4 734.1 L 872.8 733.2 C 872.6 733.1 872.4 733.1 872.2 733.1 C 870.7 732.6 867.5 732.3 862.6 732 C 851.6 731.4 841.4 731 832 730.7 C 831.6 730.7 831.3 730.7 831 730.6 C 829.1 729.7 826.8 728.6 824.8 727.9 C 814.6 724.7 806.2 729.2 798.7 735.9 C 798.4 736.2 798.3 736.4 798.3 736.7 L 798.3 763.5 C 798.3 763.7 798.4 764 798.6 764.1 C 800.3 765.6 802.3 767.1 804.2 768.6 C 812.9 774.4 821.8 773.7 830.7 769.3 C 831.3 769 831.7 768.8 832.3 768.8 C 836.9 768.8 841.1 768.7 845 768.6 C 852.9 768.1 862.3 768.1 870.4 767.4 C 871.2 767.2 871.9 767.1 872.6 766.9 Z M 977.5 770.3 C 976.2 770.5 974.7 770.6 973.2 770.8 L 973.2 784.6 C 973.2 784.8 973.4 784.8 973.4 784.8 C 973.5 784.8 973.5 784.8 973.7 784.6 Z M 966.8 771.3 C 962.3 771.6 957.8 772.1 953.2 772.5 L 967.2 796.7 C 967.2 796.7 967.2 796.8 967.3 796.8 C 967.3 796.8 967.5 796.7 967.5 796.7 Z M 663.2 801.5 C 663.5 801.4 663.7 801.2 663.8 801.1 C 667.4 796.7 671.3 791.4 675.5 785.2 C 675.5 785.2 675.5 785 675.5 785 C 675.5 785 675.5 784.9 675.3 784.8 L 672.1 783.1 C 671.9 783.1 671.8 783.1 671.8 783.3 L 662.8 800.9 C 662.8 801.1 662.8 801.1 662.8 801.1 C 662.8 801.4 662.9 801.5 663.1 801.5 C 663.2 801.5 663.2 801.5 663.2 801.5 Z M 651.9 800.5 L 656.6 773.4 C 656.6 773.3 656.5 773.1 656.3 773.1 L 651.2 773.3 C 651 773.3 651 773.4 651 773.4 L 651.6 800.5 C 651.6 800.5 651.8 800.7 651.8 800.7 C 651.9 800.7 651.9 800.5 651.9 800.5 Z M 651.8 699.2 L 650.9 726.1 C 650.9 726.3 651 726.4 651.2 726.4 L 656.5 726.6 C 656.8 726.6 656.9 726.4 656.9 726.3 C 656.9 726.3 656.9 726.3 656.9 726.1 L 651.9 699.2 C 651.9 699 651.9 699 651.9 699 C 651.8 699 651.8 699 651.8 699.2 Z M 663.4 698.9 C 663.4 698.9 663.2 698.9 663.2 698.9 C 663.1 698.9 662.9 698.9 662.9 699 C 662.9 699.2 663.1 699.2 663.1 699.2 C 665.7 705.7 668.8 711.7 672.1 717.3 C 672.1 717.3 672.1 717.4 672.2 717.4 C 672.2 717.4 672.2 717.4 672.2 717.3 L 676 715.5 C 676 715.5 676 715.4 676 715.4 C 670.9 708.5 666.8 703 663.7 699.3 C 663.5 699 663.4 698.9 663.4 698.9 Z M 663.4 698.9"
+              fillRule="evenodd"
+            />
+          </g>
+        </mask>
+      </defs>
+    </svg>
+  );
+}

diff --git a/web/app/layout.tsx b/web/app/layout.tsx
@@ -3,6 +3,7 @@ import { Archivo, Geist_Mono } from "next/font/google";
 import { Analytics } from "@vercel/analytics/next";
 import { SITE_URL } from "@/lib/constants";
 import BootScreen from "@/components/BootScreen";
+import LogoSprite from "@/components/LogoSprite";
 import "./globals.css";
 
 // Archivo, and only Archivo: it is variable on both axes Google ships it with,
@@ -66,6 +67,11 @@ export default function RootLayout({
       className={`${archivo.variable} ${geistMono.variable} h-full antialiased`}
     >
       <body className="flex min-h-full flex-col">
+        {/* The logomark's mask, once per document and *before* anything that
+            references it — including BootScreen, whose own copy used to be the
+            first definition in the tree and went dead the moment the screen was
+            hidden. See LogoSprite. */}
+        <LogoSprite />
         <BootScreen />
         {/* The grain (globals.css). One fixed layer over the whole site, three
             per cent, and it is the difference between a surface and a render. */}

diff --git a/docs/DESIGN.md b/docs/DESIGN.md
@@ -127,18 +127,27 @@ unrelated: it sets a *constructor's* name in the mono idiom.)
 
 **Since 2026-08-27 there is a logomark, and `Wordmark` is a lockup.**
 `components/Logomark.tsx` draws a **D whose counter is a Formula 1 seen from
-above, with the start-finish chequer running down the stem.** Two colours:
-the letter is `currentColor`, so the mark inverts with whatever it sits on, and
-the car and chequer are `var(--color-race)` and stay put because red reads on
-dark, on light and on red.
+above, with the start-finish chequer running down the stem.**
 
-Three rules keep it honest.
+**One colour, and a hole.** Everything solid is `currentColor`. The car and
+half the chequer are not painted at all: a mask cuts them out of the letter, so
+they show *whatever is actually behind the logo* — the page, a glass card, a
+red button, a blue banner. On the site's ground the car is `#0a0b10`; on a blue
+banner it is blue, with nothing to configure. Painting them `var(--color-bg)`
+instead would be right only while the logo sits directly on the page and wrong
+the moment it lands on a card or an image. A hole is right everywhere.
+
+Four rules keep it honest.
 
 - **It is inlined, never `<img src>`.** An SVG in an `<img>` is an isolated
-  document with no access to the page's `color` or its custom properties, so
-  the letter would render black on black. The standalone files the platform
-  demands — `favicon.ico`, `apple-icon.png`, `public/icon-{192,512}.png` — are
-  baked with literal colours for that reason, and are the *only* raster copies.
+  document with no access to the page's `color`, so the letter would render
+  black on black and the knockout would show the img's own transparent backdrop
+  rather than the surface. The standalone files the platform demands —
+  `favicon.ico`, `apple-icon.png`, `public/icon-{192,512}.png` — are baked
+  against the site's dark ground for that reason, and are the *only* raster
+  copies.
+- **The mask is defined once per document,** by `LogoSprite` in the root
+  layout, never inside each instance. See §9.7: this is a bug, not a taste.
 - **The mark is sized in `em`** (`h-[1.7em]`), so the lockup tracks the type
   size and never needs a second measurement.
 - **The lockup pairs the drawn mark with Archivo lettering, and never the
@@ -1270,7 +1279,7 @@ disagrees with it, so:
 1. **A change to any of these updates this file in the same PR:** the `@theme`
    block, `.glass-card`/`.glass-chip`, `.display`, `.hero-outline`,
    `.btn-race`, `.grain`, `CircuitTrace.tsx`, `PickBoardShot.tsx`,
-   `ProbabilityShot.tsx`, `Arrow.tsx`, `Wordmark.tsx`, `Logomark.tsx`, the focus ring, `.pressable`, the probability bands, the
+   `ProbabilityShot.tsx`, `Arrow.tsx`, `Wordmark.tsx`, `Logomark.tsx`, `LogoSprite.tsx`, the focus ring, `.pressable`, the probability bands, the
    container widths, the breakpoint meanings, the button variants, the poster
    palette, or `lib/format.ts`'s number rules.
 2. **New patterns get a home here or they get deleted.** A one-off card style, a

diff --git a/docs/ALMANAC.md b/docs/ALMANAC.md
@@ -1902,7 +1902,21 @@ They are generated from `public/logo-mark.svg` rather than drawn by hand, and
 with *"The PNG is not in RGBA format"*, which fails the whole page, not just
 the icon.
 
-### 9.7 Two gotchas that cost real debugging time
+### 9.7 Three gotchas that cost real debugging time
+
+0. **An SVG resource inside `display: none` is dead in Chrome.** The logomark
+   is a `currentColor` rect with a `<mask>` cutting the car out of it. The mask
+   first lived inside every `Logomark`, under one shared id, on the reasoning
+   that identical duplicates resolve to the first and draw the same thing.
+   `url(#…)` does resolve to the first definition **in the document** — and the
+   first one belonged to `BootScreen`, which the pre-hydration script marks
+   `hidden`, and `#boot-screen[hidden]` is `display: none`. Chrome does not
+   build SVG resources in a `display: none` subtree, so *every* reference on the
+   page failed at once and all three marks rendered as unmasked white squares.
+   The fix is `components/LogoSprite.tsx`: one definition, in the root layout,
+   in a zero-sized but **rendered** `<svg>` (`position: absolute`, `width/height:
+   0`, never `display: none`). It also took the page from three copies of 13 kB
+   of path data to one.
 
 1. **`backdrop-filter` traps `position: fixed`.** The nav uses `.glass-chip`,
    whose `backdrop-filter` creates a containing block. A `position: fixed`
